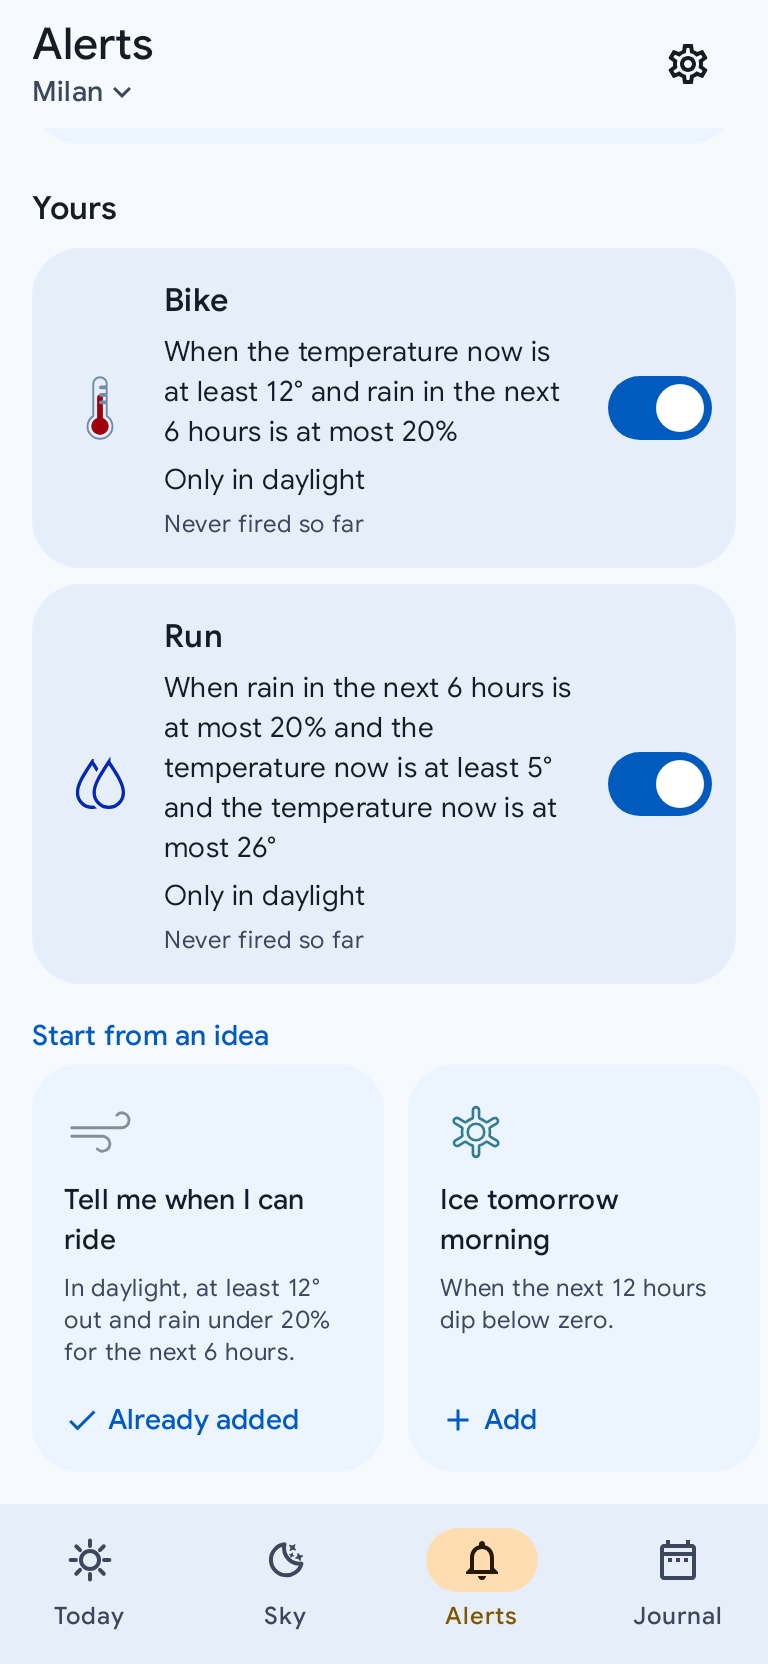
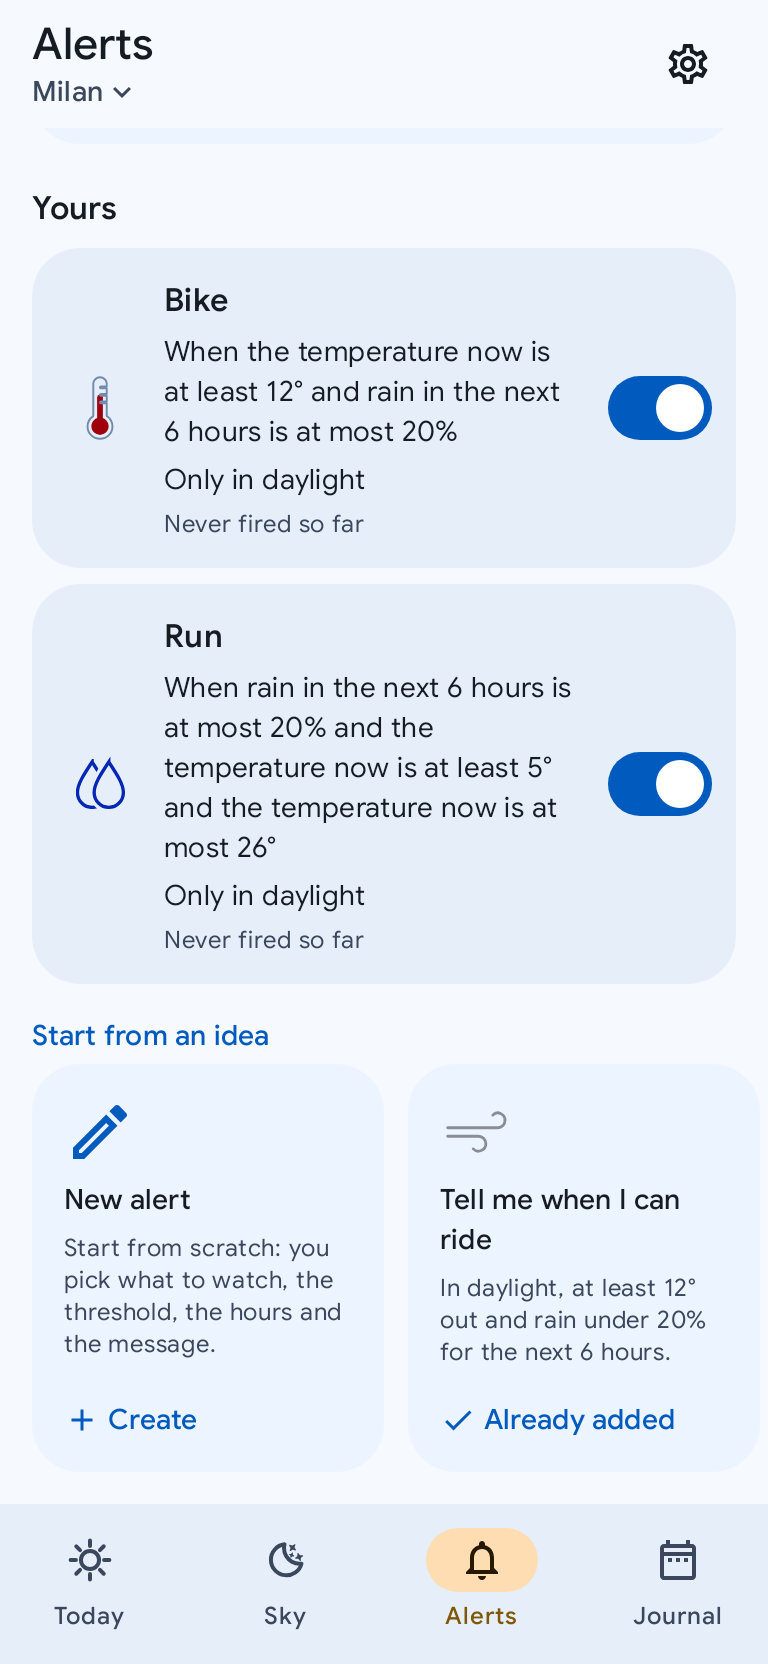
Avvisi: la carta «Nuovo avviso» per partire da zero
La prima carta della fila delle idee crea un avviso da zero, per quello che
nessuna idea copre: una condizione neutra (la temperatura adesso almeno 20°),
nome «Il mio avviso», un messaggio che resta vero qualunque cosa ne faccia il
lettore, orari «Sempre», e l'editor si apre subito. Non è mai «già aggiunta».

Un nome già preso si numera («Il mio avviso 2», «Bici 2»): «ultima volta» si
legge dalla cronologia per nome. Guida IT/EN, VISION §5.4, README, PLANNING e
alerts-yours.png rigenerato.

Claude-Session: https://claude.ai/code/session_01BtbSen9nrEZygcbWtygUPU

diff --git a/app/src/main/kotlin/com/callbackdev/chiaro/ui/alerts/AlertsScreen.kt b/app/src/main/kotlin/com/callbackdev/chiaro/ui/alerts/AlertsScreen.kt
@@ -39,6 +39,7 @@ import androidx.compose.material.icons.Icons
 import androidx.compose.material.icons.outlined.Add
 import androidx.compose.material.icons.outlined.Check
 import androidx.compose.material.icons.outlined.Close
+import androidx.compose.material.icons.outlined.Edit
 import androidx.compose.material.icons.outlined.KeyboardArrowDown
 import androidx.compose.material.icons.outlined.Settings
 import androidx.compose.material3.AlertDialog
@@ -454,6 +455,25 @@ private fun AlertsContent(
                     horizontalArrangement = Arrangement.spacedBy(12.dp),
                     modifier = Modifier.padding(bottom = 16.dp)
                 ) {
+                    // The blank idea leads (26 set 2026): building from nothing is the
+                    // other way in, and at the end of a sideways row it would be the card
+                    // nobody scrolls to.
+                    item {
+                        IdeaCard(
+                            icon = Icons.Outlined.Edit,
+                            iconTint = MaterialTheme.colorScheme.primary,
+                            title = stringResource(RuleText.blank.titleRes),
+                            description = stringResource(RuleText.blank.descriptionRes),
+                            added = false,
+                            actionLabel = stringResource(R.string.tpl_create),
+                            onAdd = {
+                                actions.addFromTemplate(RuleText.blank) { created ->
+                                    somethingTurnedOn()
+                                    onEdit(created.id)
+                                }
+                            }
+                        )
+                    }
                     items(RuleText.templates.size) { index ->
                         val template = RuleText.templates[index]
                         val added = template.conditions in existing
@@ -736,7 +756,9 @@ private fun IdeaCard(
     title: String,
     description: String,
     added: Boolean,
-    onAdd: () -> Unit
+    onAdd: () -> Unit,
+    iconTint: Color = Color.Unspecified,
+    actionLabel: String = stringResource(R.string.tpl_add)
 ) {
     Surface(
         color = MaterialTheme.colorScheme.surfaceContainerLow,
@@ -750,7 +772,7 @@ private fun IdeaCard(
             modifier = Modifier.padding(16.dp),
             verticalArrangement = Arrangement.spacedBy(6.dp)
         ) {
-            Icon(icon, contentDescription = null, tint = Color.Unspecified, modifier = Modifier.size(RowIcon))
+            Icon(icon, contentDescription = null, tint = iconTint, modifier = Modifier.size(RowIcon))
             Text(title, style = MaterialTheme.typography.titleSmall, maxLines = 2, overflow = TextOverflow.Ellipsis)
             Text(
                 text = description,
@@ -768,7 +790,7 @@ private fun IdeaCard(
                     modifier = Modifier.size(18.dp)
                 )
                 Text(
-                    text = stringResource(if (added) R.string.tpl_already_added else R.string.tpl_add),
+                    text = if (added) stringResource(R.string.tpl_already_added) else actionLabel,
                     style = MaterialTheme.typography.labelLarge,
                     color = MaterialTheme.colorScheme.primary
                 )

diff --git a/app/src/main/kotlin/com/callbackdev/chiaro/ui/alerts/RuleText.kt b/app/src/main/kotlin/com/callbackdev/chiaro/ui/alerts/RuleText.kt
@@ -236,6 +236,29 @@ object RuleText {
         val window: RuleWindow = RuleWindow.Always
     )
 
+    /**
+     * The blank idea (26 set 2026, committente): the first card of the row, for a rule the
+     * ideas do not cover. Not empty — the builder cannot hold a rule with no condition, and
+     * a working sentence to change beats a skeleton to fill — but neutral: the condition the
+     * «and another condition» button adds, a message that fits whatever the reader makes of
+     * it, any hour. Kept out of [templates]: it is never «already added», and the ideas'
+     * order is what the README's picture and its tests name.
+     */
+    val blank = Template(
+        R.string.tpl_blank_title, R.string.tpl_blank_desc,
+        R.string.tpl_blank_name, R.string.tpl_blank_message,
+        listOf(RuleCondition("current.temp_c", RuleOp.GTE, 20.0))
+    )
+
+    /**
+     * [base], or «[base] 2», «[base] 3»… — the first that no rule in [taken] carries. «Last
+     * fired» is read off the history by name, so two «Il mio avviso» would share one past.
+     */
+    fun freeName(base: String, taken: Collection<String>): String =
+        generateSequence(1) { it + 1 }
+            .map { if (it == 1) base else "$base $it" }
+            .first { it !in taken }
+
     /** Where the plain run ends and the cold one begins: the practical line of an
      * amateur runner, under which gloves, layers and a longer warm-up come out. */
     private const val RunColdBelowC = 5.0

diff --git a/app/src/test/kotlin/com/callbackdev/chiaro/ui/alerts/RunTemplatesTest.kt b/app/src/test/kotlin/com/callbackdev/chiaro/ui/alerts/RunTemplatesTest.kt
@@ -38,6 +38,26 @@ class RunTemplatesTest {
     }
 
     @Test
+    fun `the blank idea is a working rule at any hour, apart from the ideas`() {
+        val blank = RuleText.blank
+        assertEquals(1, blank.conditions.size)
+        assertEquals(RuleWindow.Always, blank.window)
+        assertTrue(blank !in RuleText.templates)
+        val rule = NotificationRule(id = 1L, name = "", conditions = blank.conditions, message = "")
+        assertTrue(RuleEngine.check(rule, sampleWeatherReport(), now) !is RuleCheck.Unavailable)
+    }
+
+    @Test
+    fun `a second rule with a name already taken is numbered`() {
+        assertEquals("Il mio avviso", RuleText.freeName("Il mio avviso", listOf("Bici")))
+        assertEquals("Il mio avviso 2", RuleText.freeName("Il mio avviso", listOf("Il mio avviso")))
+        assertEquals(
+            "Bici 3",
+            RuleText.freeName("Bici", listOf("Bici", "Bici 2", "Corsa"))
+        )
+    }
+
+    @Test
     fun `the outdoor ideas are born in daylight, the others at any hour`() {
         val outdoor = setOf(R.string.tpl_bike_title, R.string.tpl_run_title, R.string.tpl_cold_run_title)
         RuleText.templates.forEach { template ->

diff --git a/app/src/main/kotlin/com/callbackdev/chiaro/ui/alerts/AlertsViewModel.kt b/app/src/main/kotlin/com/callbackdev/chiaro/ui/alerts/AlertsViewModel.kt
@@ -170,12 +170,15 @@ class AlertsViewModel(
 
     // ------------------------------------------------------------- the reader's
 
-    /** Creates the template's real rule, already on, and hands it to [onCreated]. */
+    /** Creates the template's real rule, already on, and hands it to [onCreated]. The name
+     * is the idea's, numbered when a rule already has it (the blank idea, a second «Bici»). */
     fun addFromTemplate(template: RuleText.Template, onCreated: (NotificationRule) -> Unit) {
         val res = appContext.resources
         viewModelScope.launch {
             val created = ruleStore.add(
-                name = res.getString(template.nameRes),
+                name = RuleText.freeName(
+                    res.getString(template.nameRes), ruleStore.rules.first().map { it.name }
+                ),
                 conditions = template.conditions,
                 message = res.getString(template.messageRes),
                 window = template.window

diff --git a/PLANNING.md b/PLANNING.md
@@ -11464,3 +11464,32 @@ scrivere codice: due fasce e «Con la luce».
   diverso di 622 pixel di antialiasing, invisibili: rimesso com'era.
 - README: la frase sugli avvisi dice gli orari, e già che c'era «fino a due condizioni in
   più» (era «una seconda», ferma a prima del 26 set) e sette idee (erano sei).
+
+## «Nuovo avviso»: la carta per partire da zero (committente, 26 set 2026)
+
+La guida lo prometteva già («oppure costruisci la frase da te») ma l'app no: l'unico modo di
+creare un avviso era scegliere un'idea e cambiarle tutto, e un'idea usata restava «Già
+aggiunto», quindi anche due «Bici» con soglie diverse erano un giro non evidente.
+`RuleStore.add()` senza argomenti c'era, ereditata da tweather, ma nessun pulsante la usava
+e scrive nome e messaggio in inglese fisso: non adatta.
+
+- **Una carta «Nuovo avviso» in testa alla fila delle idee** (scelta del committente fra la
+  carta e un pulsante sotto «I tuoi»): disegno a matita in `primary` (il «+» c'è già sulla
+  riga dell'azione), «Da zero: scegli tu cosa guardare, la soglia, gli orari e il messaggio»,
+  azione «Crea». Mai «Già aggiunto». In testa e non in fondo: in una fila da scorrere di lato
+  l'ultima carta è quella che nessuno raggiunge.
+- **Non parte vuota**: l'editor non tiene una regola senza condizioni, e una frase che
+  funziona da cambiare batte uno scheletro da riempire. `RuleText.blank`: «la temperatura
+  adesso almeno 20°» (la stessa condizione che aggiunge «e un'altra condizione»), nome «Il mio
+  avviso», messaggio «Il tuo avviso è scattato: {trigger.value}.», che resta vero qualunque
+  cosa il lettore ne faccia, orari «Sempre». Si apre subito l'editor, come dopo un'idea.
+- **Fuori da `RuleText.templates`**: non è mai «già aggiunta», e l'ordine delle idee è quello
+  che la foto del README e i test nominano.
+- **Il nome è numerato se già preso** (`RuleText.freeName`: «Il mio avviso 2», «Bici 2»),
+  per ogni creazione da idea: «ultima volta» si legge dalla cronologia per nome, e due avvisi
+  con lo stesso nome condividerebbero un passato.
+- Al tetto di dieci sparisce con le idee, sotto la frase che c'è già.
+- Guida IT/EN («oppure apri «Nuovo avviso» e costruisci la frase da te»), VISION §5.4, README
+  (frase, testo alternativo e didascalia) e `alerts-yours.png` rigenerato.
+- `RunTemplatesTest` (+2): l'idea vuota è una regola che il motore valuta, a qualsiasi ora,
+  fuori dalle idee; la numerazione dei nomi.

diff --git a/README.md b/README.md
@@ -102,12 +102,12 @@ it looks:
 <table>
 <tr>
 <td width="33%"><img src="docs/screenshots/alerts.png" alt="Alerts: when each notification can arrive, then the official Protezione Civile bulletin for the zone and the switch that follows it"></td>
-<td width="33%"><img src="docs/screenshots/alerts-yours.png" alt="Your own alerts: two rules made from the ideas, Bike and Run, each written out as its sentence and its hours (only in daylight) with its switch, and the row of ideas to start from"></td>
+<td width="33%"><img src="docs/screenshots/alerts-yours.png" alt="Your own alerts: two rules made from the ideas, Bike and Run, each written out as its sentence and its hours (only in daylight) with its switch, and the row of ideas to start from, led by a New alert card for one built from scratch"></td>
 <td width="33%"><img src="docs/screenshots/settings.png" alt="Settings: the guide, the units, and the appearance with a live preview above the theme, the palette and the typeface"></td>
 </tr>
 <tr>
 <td align="center"><sub>When they arrive, then the official bulletin and what it sends</sub></td>
-<td align="center"><sub>Your own alerts, written as sentences, started from an idea</sub></td>
+<td align="center"><sub>Your own alerts, written as sentences, started from an idea or from scratch</sub></td>
 <td align="center"><sub>Two palettes, three typefaces, two icon families</sub></td>
 </tr>
 </table>
@@ -197,7 +197,8 @@ it looks:
   within 6 hours, at most twice a day; the morning summary, once between 6 and 12; the
   evening summary, once between 18 and 23, whose subject is tomorrow, with the night in
   between, tomorrow's umbrella and tomorrow's sunrise under it when you open it). Then
-  your own: seven templates that create a real rule already switched on, and a builder that
+  your own: seven templates that create a real rule already switched on, a "New alert"
+  card to start from scratch, and a builder that
   is a sentence of tappable chips (*when* **rain in the next 6 hours** *is* **above**
   **70%**), with up to two more conditions, your own message and the hours it may ring
   in: at any time, only in daylight (sunrise to sunset where you are, so it follows the

diff --git a/VISION.md b/VISION.md
@@ -411,7 +411,9 @@ Three groups, one screen (the first arrived with §12.8, 9 set 2026; the screen 
 - **Yours**: the rules engine, approached from the answer rather than the syntax.
   - **Templates first**: "Tell me when I can ride", "Ice tomorrow morning", "A window to run",
     "A run in the cold", "High UV", "A clear night". Picking one creates a real rule with sensible
-    thresholds, already on.
+    thresholds, already on. **The first card is "New alert"** (26 set 2026): a rule from
+    scratch, for what no idea covers, started from one neutral condition and opened straight in
+    the builder.
   - **The builder** is a sentence with three tappable chips: *Notify me when* **[rain, next 6 h]**
     *is* **[above]** **[70%]**, plus up to two more conditions (three in all since 26 set 2026:
     a range is two) and the message. Pickers, never a text field for a value that has a range:
